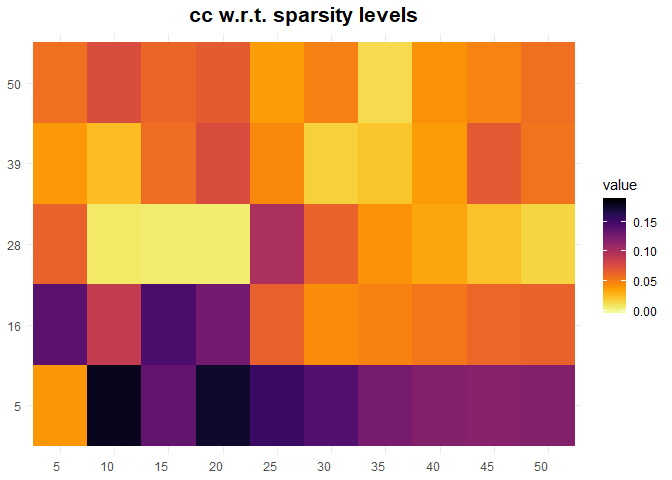
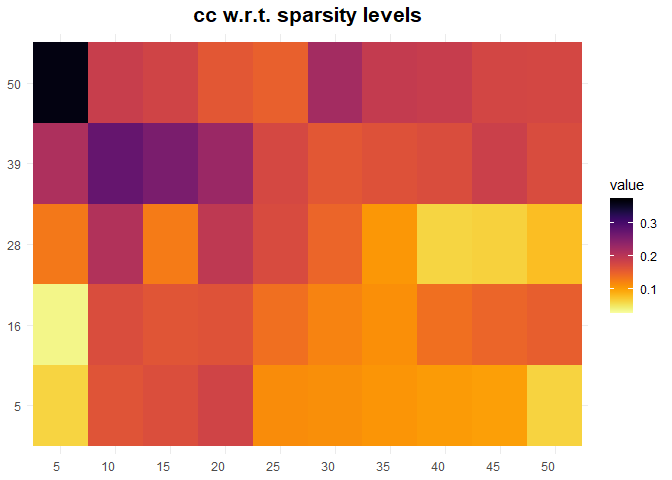
readme complete 	# with '#' will be ignored, and an empty message aborts the commit.

diff --git a/README.md b/README.md
@@ -77,45 +77,45 @@ for (k in 1:5) {
                                             model = "lme", lmeformula = " ~ 0 + poly(time,3) + (1|id)")
 
 }
-#>  Common convergence error: 0 & Iterations: 5  Common convergence error: 0 & Iterations: 6 
+#>  Common convergence error: 0 & Iterations: 5  Common convergence error: 0 & Iterations: 5 
 #> k-fold cv max. cancor 
-#>             0.4191102 
+#>             0.4718113 
+#> 
+#>  ........................................ 
+#>  # nonzero A: 20
+#>  # nonzero B: 5
+#>  ........................................ 
+#>  Common convergence error: 0 & Iterations: 21  Common convergence error: 0 & Iterations: 10 
+#> k-fold cv max. cancor 
+#>             0.4450169 
 #> 
 #>  ........................................ 
 #>  # nonzero A: 10
 #>  # nonzero B: 5
 #>  ........................................ 
-#>  Common convergence error: 2e-05 & Iterations: 21  Common convergence error: 0.00034 & Iterations: 21 
+#>  Common convergence error: 0.04181 & Iterations: 21  Common convergence error: 0.02173 & Iterations: 21 
 #> k-fold cv max. cancor 
-#>             0.3968518 
-#> 
-#>  ........................................ 
-#>  # nonzero A: 10
-#>  # nonzero B: 28
-#>  ........................................ 
-#>  Common convergence error: 0.0324 & Iterations: 21  Common convergence error: 0.0282 & Iterations: 21 
-#> k-fold cv max. cancor 
-#>             0.1791438 
-#> 
-#>  ........................................ 
-#>  # nonzero A: 10
-#>  # nonzero B: 5
-#>  ........................................ 
-#>  Common convergence error: 0.04798 & Iterations: 21  Common convergence error: 0.03029 & Iterations: 21 
-#> k-fold cv max. cancor 
-#>             0.3115394 
+#>             0.3632964 
 #> 
 #>  ........................................ 
 #>  # nonzero A: 5
 #>  # nonzero B: 50
 #>  ........................................ 
-#>  Common convergence error: 0.06816 & Iterations: 21  Common convergence error: 0.06314 & Iterations: 21 
+#>  Common convergence error: 0.0515 & Iterations: 21  Common convergence error: 0.04285 & Iterations: 21 
 #> k-fold cv max. cancor 
-#>             0.3007874 
+#>             0.4227209 
 #> 
 #>  ........................................ 
-#>  # nonzero A: 5
-#>  # nonzero B: 16
+#>  # nonzero A: 45
+#>  # nonzero B: 28
+#>  ........................................ 
+#>  Common convergence error: 0.02489 & Iterations: 21  Common convergence error: 0.03177 & Iterations: 21 
+#> k-fold cv max. cancor 
+#>             0.2651134 
+#> 
+#>  ........................................ 
+#>  # nonzero A: 30
+#>  # nonzero B: 50
 #>  ........................................
 ```
 
@@ -135,44 +135,44 @@ for (k in 1:5) {
 
 <img src="man/figures/README-gridPlots-1.png" width="100%" /><img src="man/figures/README-gridPlots-2.png" width="100%" /><img src="man/figures/README-gridPlots-3.png" width="100%" />
 
-    #>  Common convergence error: 0 & Iterations: 4  Common convergence error: 0 & Iterations: 6 
+    #>  Common convergence error: 0 & Iterations: 5  Common convergence error: 0 & Iterations: 5 
     #> k-fold cv max. cancor 
-    #>             0.4191102 
+    #>             0.4718113 
     #> 
     #>  ........................................ 
-    #>  # nonzero A: 10
+    #>  # nonzero A: 20
     #>  # nonzero B: 5
     #>  ........................................ 
-    #>  Common convergence error: 0 & Iterations: 9  Common convergence error: 0 & Iterations: 21 
+    #>  Common convergence error: 0 & Iterations: 17  Common convergence error: 0 & Iterations: 8 
     #> k-fold cv max. cancor 
-    #>             0.1683788 
+    #>             0.4394534 
     #> 
     #>  ........................................ 
-    #>  # nonzero A: 10
+    #>  # nonzero A: 20
     #>  # nonzero B: 5
     #>  ........................................ 
-    #>  Common convergence error: 0 & Iterations: 9  Common convergence error: 0 & Iterations: 16 
+    #>  Common convergence error: 0.02012 & Iterations: 21  Common convergence error: 0.00172 & Iterations: 21 
     #> k-fold cv max. cancor 
-    #>             0.3118109 
+    #>            0.04284748 
     #> 
     #>  ........................................ 
-    #>  # nonzero A: 10
+    #>  # nonzero A: 20
     #>  # nonzero B: 5
     #>  ........................................ 
-    #>  Common convergence error: 0 & Iterations: 20  Common convergence error: 0.09223 & Iterations: 21 
+    #>  Common convergence error: 2e-05 & Iterations: 21  Common convergence error: 0.00497 & Iterations: 21 
     #> k-fold cv max. cancor 
-    #>             0.0630195 
+    #>            0.05984921 
     #> 
     #>  ........................................ 
-    #>  # nonzero A: 10
+    #>  # nonzero A: 20
     #>  # nonzero B: 5
     #>  ........................................ 
-    #>  Common convergence error: 0.01518 & Iterations: 21  Common convergence error: 0.00273 & Iterations: 21 
+    #>  Common convergence error: 0.37522 & Iterations: 21  Common convergence error: 5e-05 & Iterations: 21 
     #> k-fold cv max. cancor 
-    #>           0.007440166 
+    #>             0.1551553 
     #> 
     #>  ........................................ 
-    #>  # nonzero A: 10
+    #>  # nonzero A: 20
     #>  # nonzero B: 5
     #>  ........................................
     #> Loading required package: iterators
@@ -192,8 +192,8 @@ for (k in 1:5) {
 
     #> Empirical p-values:
     #> 0
-    #> 0.062
-    #> 0.001
-    #> 0.476
-    #> 0.969
+    #> 0
+    #> 0.649
+    #> 0.518
+    #> 0.088
     #> NULL
